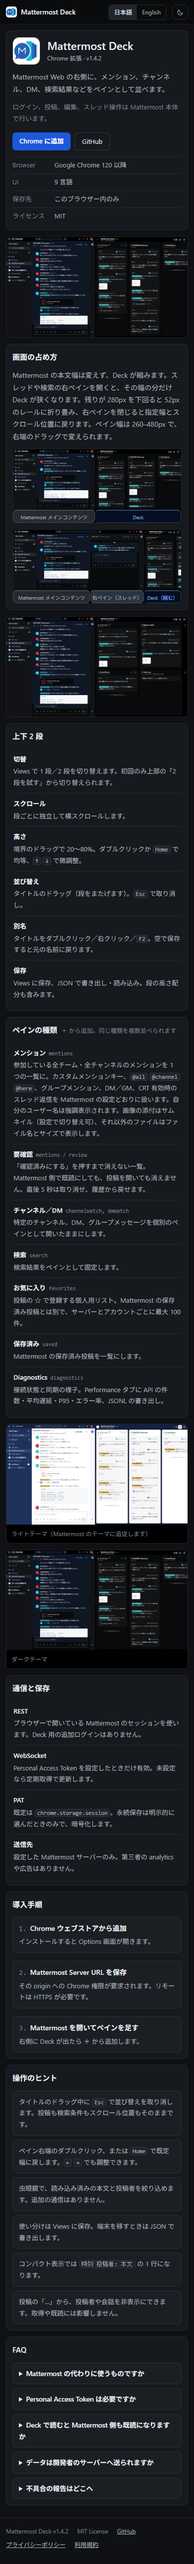
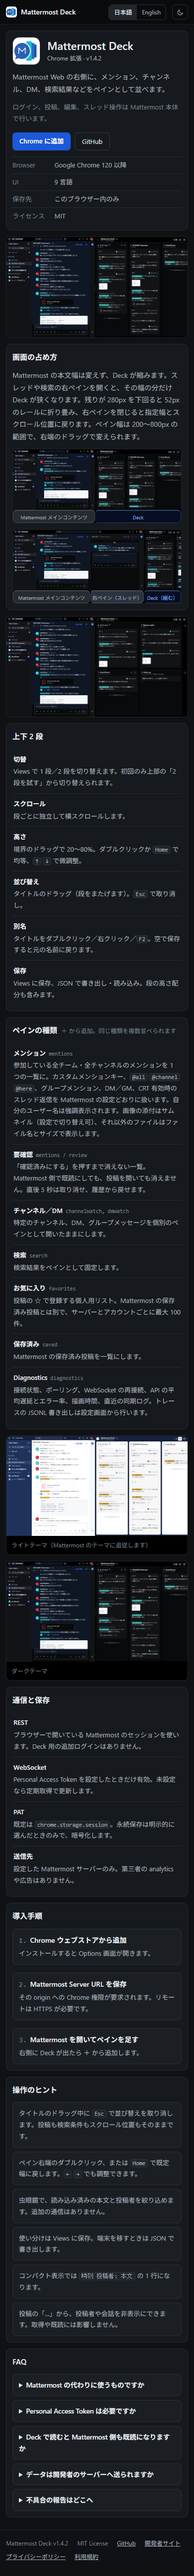
fix: align deck-tone mock text with implementation; add developer site link

diff --git a/mock/deck-tone.html b/mock/deck-tone.html
@@ -69,8 +69,8 @@
   <section id="layout" class="pane">
     <h2><span lang="ja">画面の占め方</span><span lang="en">How it uses the width</span></h2>
     <p class="lead">
-      <span lang="ja">Mattermost の本文幅は変えず、Deck が縮みます。スレッドや検索の右ペインを開くと、その幅の分だけ Deck が狭くなります。残りが 280px を下回ると 52px のレールに折り畳み、右ペインを閉じると指定幅とスクロール位置に戻ります。ペイン幅は 260–480px で、右端のドラッグで変えられます。</span>
-      <span lang="en">The Mattermost main area keeps its width and Deck shrinks. Opening a thread or search pane narrows Deck by the same width. Below 280 px it collapses to a 52 px rail, then restores its width and scroll position when the pane closes. Each pane is 260–480 px wide and resizes by dragging its right edge.</span>
+      <span lang="ja">Mattermost の本文幅は変えず、Deck が縮みます。スレッドや検索の右ペインを開くと、その幅の分だけ Deck が狭くなります。残りが 280px を下回ると 52px のレールに折り畳み、右ペインを閉じると指定幅とスクロール位置に戻ります。ペイン幅は 200〜800px の範囲で、右端のドラッグで変えられます。</span>
+      <span lang="en">The Mattermost main area keeps its width and Deck shrinks. Opening a thread or search pane narrows Deck by the same width. Below 280 px it collapses to a 52 px rail, then restores its width and scroll position when the pane closes. Each pane can be 200–800 px wide and resizes by dragging its right edge.</span>
     </p>
     <div class="stack">
       <figure class="shot annotated">
@@ -119,7 +119,7 @@
       <tr><td class="k"><span lang="ja">検索</span><span lang="en">Search</span><span class="id">search</span></td><td><span lang="ja">検索結果をペインとして固定します。</span><span lang="en">Pins a set of search results as a pane.</span></td></tr>
       <tr><td class="k"><span lang="ja">お気に入り</span><span lang="en">Favorites</span><span class="id">favorites</span></td><td><span lang="ja">投稿の ☆ で登録する個人用リスト。Mattermost の保存済み投稿とは別で、サーバーとアカウントごとに最大 100 件。</span><span lang="en">A personal list added with ☆ on a post, separate from Mattermost saved posts. Up to 100 per server and account.</span></td></tr>
       <tr><td class="k"><span lang="ja">保存済み</span><span lang="en">Saved</span><span class="id">saved</span></td><td><span lang="ja">Mattermost の保存済み投稿を一覧にします。</span><span lang="en">Lists your Mattermost saved posts.</span></td></tr>
-      <tr><td class="k">Diagnostics<span class="id">diagnostics</span></td><td><span lang="ja">接続状態と同期の様子。Performance タブに API の件数・平均遅延・P95・エラー率、JSONL の書き出し。</span><span lang="en">Connection and sync activity. The Performance tab shows API counts, average latency, P95, error rate, and JSONL export.</span></td></tr>
+      <tr><td class="k">Diagnostics<span class="id">diagnostics</span></td><td><span lang="ja">接続状態、ポーリング、WebSocket の再接続、API の平均遅延とエラー率、描画時間、直近の同期ログ。トレースの JSONL 書き出しは設定画面から行います。</span><span lang="en">Connection status, polling, WebSocket reconnects, API average latency and error rate, render time, and the recent sync log. Trace export as JSONL is in Settings.</span></td></tr>
     </table>
   </section>
 
@@ -174,6 +174,7 @@
   <div class="wrap">
     <span>Mattermost Deck v1.4.2</span><span>MIT License</span>
     <a href="https://github.com/mmiyaji/mattermost-deck" target="_blank" rel="noopener noreferrer">GitHub</a>
+    <a href="https://ruhenheim.org/" target="_blank" rel="noopener noreferrer"><span lang="ja">開発者サイト</span><span lang="en">Developer site</span></a>
     <a href="../docs/privacy/index.html"><span lang="ja">プライバシーポリシー</span><span lang="en">Privacy Policy</span></a>
     <a href="../docs/terms/index.html"><span lang="ja">利用規約</span><span lang="en">Terms</span></a>
   </div>
